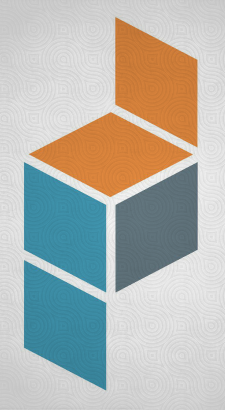
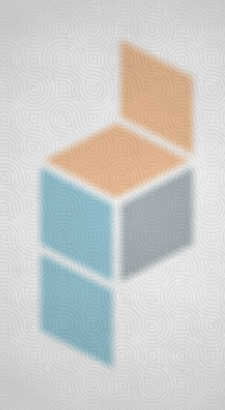
update color theme

diff --git a/pydelhiconf/uix/screens/screenschedule.py b/pydelhiconf/uix/screens/screenschedule.py
@@ -116,7 +116,7 @@ class ScreenSchedule(Screen):
         text: 'Title'
 
 <TabbedCarousel>
-    background_color: 1, 1, 1, 0
+    background_color: 210./256., 127./256., 59./255, 0
 
 <TabbedPanelHeader>
     background_color: (1, 1, 1, 1) if self.state == 'down' else app.base_active_color
@@ -216,8 +216,6 @@ class ScreenSchedule(Screen):
                         tc = tlk.ids.container
                         ti = TalkInfo(talk=talk)
                         tc.add_widget(ti)
-                        print len(tc.children)
-                        ti.color = (.5, .5, .5, .7) if len(tc.children)%2 == 0 else (.3, .3, .3, .7)
                     continue
                 ti = TalkInfo(talk=talk)
                 trackscreens[int(tid)-1].ids.container.add_widget(ti)

diff --git a/pydelhiconf/main.py b/pydelhiconf/main.py
@@ -65,7 +65,7 @@ class PyConApp(App):
     defaults to Red(217, 52, 47)
     '''
 
-    base_inactive_light = ListProperty([56/255.,171/255.,180/255., 1])
+    base_inactive_light = ListProperty([142/255.,185/255.,198/255., 2])
     '''This is the base Color in the app that is used to denote the currently
     active color used to display active buttons and highlited areas. Format
     is RGBA.
